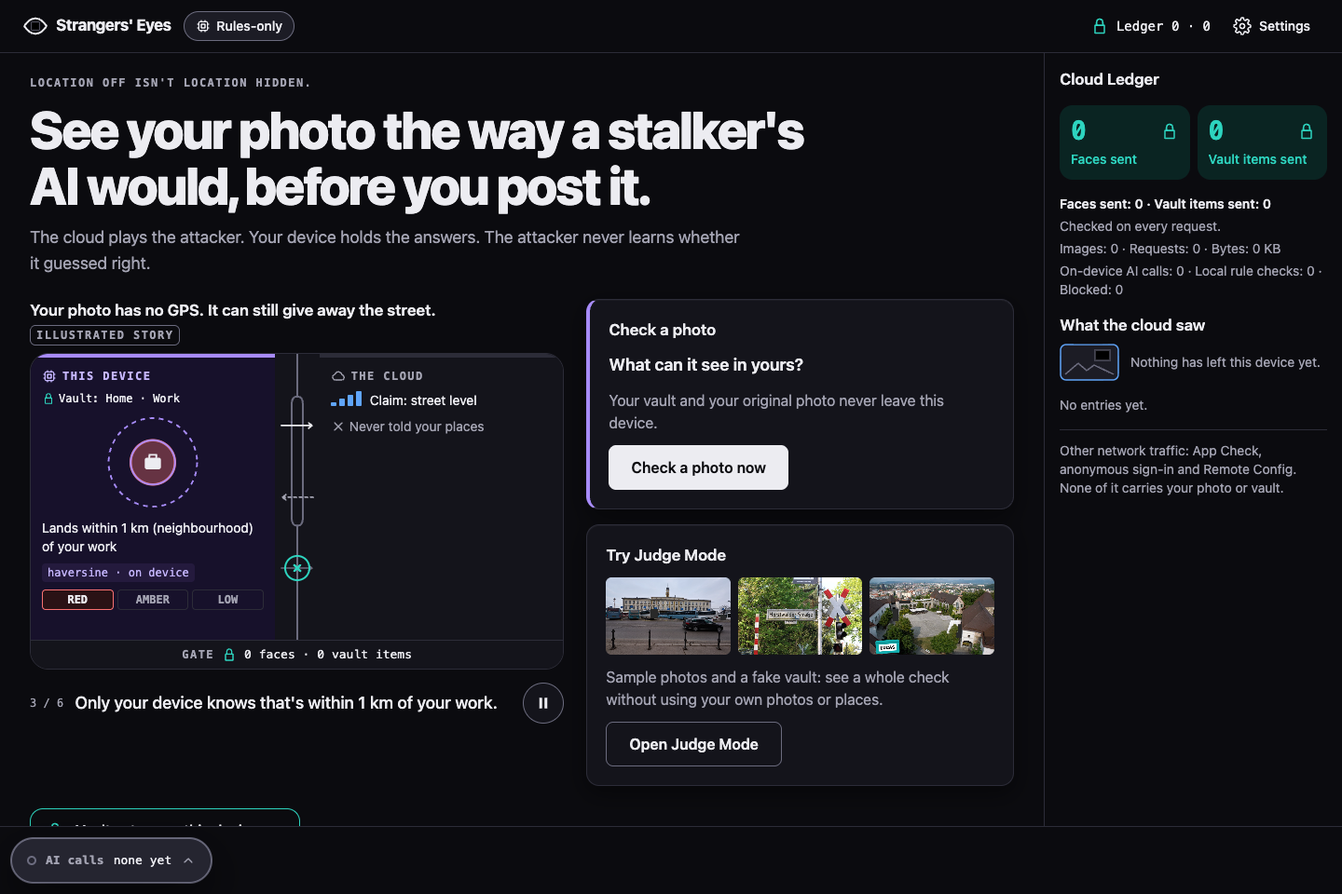
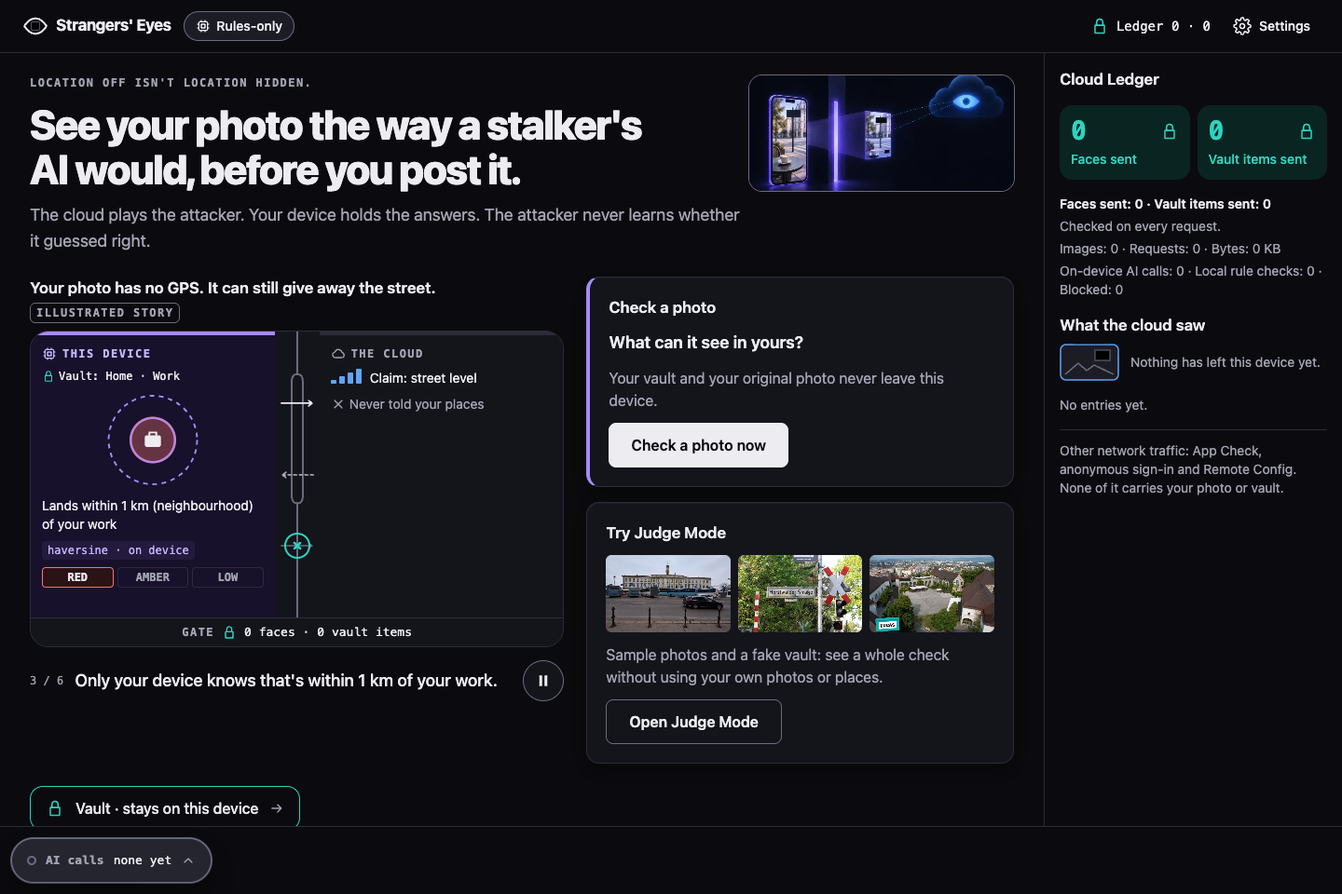
T-166 T-180 D-170 Figma-generated illustrations in the app and the video
- Four illustrations in one style (violet device, blue cloud, solid black
  masks), generated with Figma's AI image tool, as metadata-free WebP in
  web/public/art/ (105 KB, credited in SOURCES.md). Shown through
  components/Art.tsx as decoration: Welcome and the Home header (hero),
  the Check drop zone (check), About (gate). The Vault screen still loads
  no image (vaultUi.test.ts); the vault art is used in the video only.
- Home keeps the fold budget: the headline is 2.75 rem from lg so it stays
  on two lines beside the art; both CTAs above 900 px minus the HUD band.
- Video: hero behind the title reveal, vault on the private-list beat, gate
  behind the closing card; timings and narration unchanged (161.2 s).
- Gallery 01-home re-shot; DESIGN 1.1, DEVPOST disclosure, VIDEO, logs.
  F-301 (a hero draft drew location dots, discarded), F-302.

Web check 3450/3450, build + check-dist ok, check-images ok.

diff --git a/video/src/scenes.tsx b/video/src/scenes.tsx
@@ -48,6 +48,19 @@ const Title = ({ children, at = 0, size = 64, y = 60 }: { children: ReactNode; a
 };
 
 // ---------------------------------------------------------------- 1 post
+/** D-170: a Figma-generated illustration as a full-bleed, dimmed backdrop with a slow push-in. */
+const Backdrop = ({ src, opacity, dim = 0.55, z0 = 1.04, z1 = 1.12 }: { src: string; opacity: number; dim?: number; z0?: number; z1?: number }) => {
+  const frame = useCurrentFrame();
+  const { durationInFrames } = useVideoConfig();
+  const z = interpolate(frame, [0, durationInFrames], [z0, z1]);
+  return (
+    <AbsoluteFill style={{ opacity, overflow: 'hidden' }}>
+      <Img src={staticFile(`img/${src}`)} style={{ width: '100%', height: '100%', objectFit: 'cover', transform: `scale(${z})` }} />
+      <AbsoluteFill style={{ background: `radial-gradient(ellipse at 50% 50%, rgba(11,11,15,${dim}) 0%, rgba(11,11,15,${Math.min(0.95, dim + 0.3)}) 75%)` }} />
+    </AbsoluteFill>
+  );
+};
+
 export const Post = () => {
   const t = useSec();
   const rise = useAt(0, 13);
@@ -124,6 +137,7 @@ export const Stranger = () => {
           })}
         </div>
       </div>
+      <Backdrop src="art-hero.webp" opacity={title} dim={0.6} />
       <AbsoluteFill style={{ justifyContent: 'center', alignItems: 'center', opacity: title }}>
         <div style={{ transform: `scale(${0.9 + 0.1 * title})`, textAlign: 'center', marginTop: -80 }}>
           <EyeLogo size={260} from={10.2} blinkAt={12.2} />
@@ -182,6 +196,11 @@ export const How = () => {
           <div style={{ textAlign: 'center', marginTop: 10, fontSize: 21, color: C.muted }}>distance bands, never a map pin</div>
         </div>
       </Phone>
+      {/* D-170: the vault illustration beside the phone while the private list is on screen */}
+      <div style={{ position: 'absolute', left: 575, top: 560, width: 310, height: 310, opacity: Math.max(0, vault), transform: `scale(${0.92 + 0.08 * Math.max(0, vault)})`,
+        borderRadius: 24, overflow: 'hidden', boxShadow: `0 0 60px ${C.device}44` }}>
+        <Img src={staticFile('img/art-vault.webp')} style={{ width: '100%', height: '100%', objectFit: 'cover' }} />
+      </div>
       {/* the checkpoint */}
       <div style={{ position: 'absolute', left: 925, top: 230 }}><Wall h={600} flash={flash} /></div>
       {/* the cloud AI */}
@@ -443,7 +462,8 @@ export const Close = () => {
   const off = useAt(0.2, 14);
   return (
     <AbsoluteFill style={{ justifyContent: 'center', alignItems: 'center', textAlign: 'center' }}>
-      <div style={{ marginTop: -60 }}>
+      <Backdrop src="art-gate.webp" opacity={off} dim={0.7} />
+      <div style={{ marginTop: -60, position: 'relative' }}>
         <EyeLogo size={200} from={0.4} blinkAt={2.6} />
         <div style={{ fontSize: 52, fontWeight: 800, color: C.muted, marginTop: 10, opacity: off }}>Location off isn't location hidden.</div>
         <div style={{ fontSize: 112, fontWeight: 900, letterSpacing: -3, marginTop: 8, opacity: useAt(2.2), transform: `scale(${0.92 + 0.08 * useAt(2.2)})` }}>Strangers' Eyes</div>

diff --git a/web/src/ui/screens/Home.tsx b/web/src/ui/screens/Home.tsx
@@ -8,6 +8,7 @@
 // StoryReel beside the two cards at xl (it draws both lanes and the Wall, so it replaces the lanes explainer here).
 // Below xl the order is Check card, reel, Judge card, so the Check CTA stays high on a phone.
 import { t } from '../../core/strings';
+import { Art } from '../components/Art';
 import { ButtonLink } from '../components/Button';
 import { Icon } from '../components/Icon';
 import { StoryReel } from '../components/StoryReel';
@@ -19,11 +20,21 @@ const SAMPLE_THUMBS = ['judge-01', 'judge-02', 'judge-03'] as const;
 export function Home() {
   return (
     <div className="flex flex-col gap-6">
+      {/* D-170: the hero illustration sits beside the tagline from lg up and is cropped to the text block's height, so
+          the fold budget (DESIGN §5.1) is unchanged; from sm to lg it follows the lead at a short banner height; on a
+          phone it is left out so the Check CTA stays high. */}
       <section aria-labelledby="home-title" className="flex flex-col gap-3">
-        <p className={EYEBROW}>{t('ui.welcome.eyebrow')}</p>
-        <h1 id="home-title" className="text-display-sm font-extrabold tracking-[-0.035em] text-balance sm:text-display">
-          {t('copy.app.tagline')}
-        </h1>
+        <div className="grid gap-4 lg:grid-cols-[minmax(0,1.45fr)_minmax(0,0.55fr)] lg:items-stretch lg:gap-6">
+          <div className="flex min-w-0 flex-col gap-3">
+            <p className={EYEBROW}>{t('ui.welcome.eyebrow')}</p>
+            <h1 id="home-title" className="text-display-sm font-extrabold tracking-[-0.035em] text-balance sm:text-display lg:text-[2.75rem] lg:leading-[3rem]">
+              {t('copy.app.tagline')}
+            </h1>
+          </div>
+          <div className="relative hidden h-44 min-w-0 sm:block lg:h-auto">
+            <Art name="hero" eager sizes="(min-width: 1024px) 36vw, 100vw" className="absolute inset-0 size-full object-[50%_25%]" />
+          </div>
+        </div>
         <p className={LEAD}>{t('copy.app.oneLiner')}</p>
       </section>
 

diff --git a/web/src/ui/components/Art.tsx b/web/src/ui/components/Art.tsx
@@ -1,0 +1,44 @@
+// web/src/ui/components/Art.tsx: decorative illustrations (D-170). Generated with Figma's AI image tool for this app
+// and credited in web/public/art/SOURCES.md: no real people, places or homes (CLAUDE.md invariant 9), no map, pin or
+// dot for an attacker's guess (invariant 5), masks drawn as solid black (invariant 6).
+// Not used on the Vault screen: that screen loads no image or other resource at all (vaultUi.test.ts guards it).
+// They are DECORATION: alt="" and aria-hidden, because the copy next to each one already says what it shows. The art
+// is painted on a near-black ground, so it sits in its own dark, rounded frame in both themes. Same-origin static files,
+// so they work offline after the first load and never touch the Ledger.
+export type ArtName = 'hero' | 'check' | 'vault' | 'gate';
+
+const SRC: Record<ArtName, { src: string; srcSet?: string; w: number; h: number }> = {
+  hero: { src: '/art/hero.webp', srcSet: '/art/hero-768.webp 768w, /art/hero.webp 1536w', w: 1536, h: 864 },
+  check: { src: '/art/check.webp', w: 800, h: 600 },
+  vault: { src: '/art/vault.webp', w: 640, h: 640 },
+  gate: { src: '/art/gate.webp', w: 960, h: 720 },
+};
+
+export interface ArtProps {
+  name: ArtName;
+  className?: string;
+  /** CSS `sizes` for the responsive source (hero only). */
+  sizes?: string;
+  /** Eager for above-the-fold art; lazy otherwise. */
+  eager?: boolean;
+}
+
+export function Art({ name, className = '', sizes, eager = false }: ArtProps) {
+  const a = SRC[name];
+  return (
+    <img
+      src={a.src}
+      srcSet={a.srcSet}
+      sizes={a.srcSet ? sizes : undefined}
+      width={a.w}
+      height={a.h}
+      alt=""
+      aria-hidden="true"
+      data-art={name}
+      loading={eager ? 'eager' : 'lazy'}
+      decoding="async"
+      draggable={false}
+      className={`block rounded-card bg-[#0b0b0f] object-cover ring-1 ring-line-strong ${className}`}
+    />
+  );
+}

diff --git a/web/src/ui/components/ImportDropzone.tsx b/web/src/ui/components/ImportDropzone.tsx
@@ -14,6 +14,7 @@ import { importPhoto, type ImportedPhoto } from '../../tier0/importPhoto';
 import {
   importAndSettle, pickFromTransfer, pickStep, refuseDragOutsideZone, statusLines, type ImportStatus, type TransferPick,
 } from '../importTransfer';
+import { Art } from './Art';
 import { Icon } from './Icon';
 
 export interface ImportDropzoneProps {
@@ -144,14 +145,18 @@ export function ImportDropzone({ getPins, status, onStatus, onPhoto }: ImportDro
         onDrop={onDrop}
         className={
           'flex min-h-48 w-full flex-col items-center justify-center gap-3 rounded-stage border-2 border-dashed p-8 ' +
-          'text-center text-body transition-colors duration-150 ' +
+          'text-center text-body transition-colors duration-150 sm:flex-row sm:gap-6 sm:p-6 sm:text-left ' +
           (dragging ? 'border-accent bg-surface-2' : 'border-line-strong bg-surface hover:bg-surface-2')
         }
       >
-        <span aria-hidden="true" className="inline-flex size-12 items-center justify-center rounded-card bg-surface-3 text-fg">
-          <Icon name="arrowRight" className="size-6 rotate-90" />
+        {/* D-170: decorative; the drop copy below says what to do. */}
+        <Art name="check" eager className="aspect-[4/3] w-40 shrink-0 sm:w-48" />
+        <span className="flex flex-col items-center gap-3 sm:items-start">
+          <span aria-hidden="true" className="inline-flex size-10 items-center justify-center rounded-card bg-surface-3 text-fg">
+            <Icon name="arrowRight" className="size-5 rotate-90" />
+          </span>
+          <span className="max-w-sm font-medium text-fg">{t('copy.import.drop')}</span>
         </span>
-        <span className="max-w-sm font-medium text-fg">{t('copy.import.drop')}</span>
       </button>
       <div
         id={statusId}

diff --git a/web/src/ui/screens/Welcome.tsx b/web/src/ui/screens/Welcome.tsx
@@ -10,6 +10,7 @@
 // Test hooks: the checkbox is its label's first child, and Continue holds text only.
 import { useEffect, useState, type FormEvent } from 'react';
 import { t, type StringId } from '../../core/strings';
+import { Art } from '../components/Art';
 import { Button } from '../components/Button';
 import { BrandMark, Icon, type IconName } from '../components/Icon';
 import { StoryReel } from '../components/StoryReel';
@@ -80,7 +81,11 @@ export function Welcome({ onContinue }: WelcomeProps) {
             </Button>
           </form>
         </div>
-        <StoryReel variant="hero" className="w-full min-w-0 lg:max-w-[560px] lg:justify-self-end" />
+        {/* D-170: the hero illustration above the reel (decorative; the reel and the copy carry the meaning). */}
+        <div className="flex w-full min-w-0 flex-col gap-4 lg:max-w-[560px] lg:justify-self-end">
+          <Art name="hero" eager sizes="(min-width: 1024px) 560px, 100vw" className="aspect-[16/9] w-full" />
+          <StoryReel variant="hero" className="w-full min-w-0" />
+        </div>
       </div>
     </main>
   );

diff --git a/web/src/ui/screens/About.tsx b/web/src/ui/screens/About.tsx
@@ -12,6 +12,7 @@ import { PAYLOAD_CLASSES, type PayloadClass } from '../../ai/capabilities';
 import { t, type StringId } from '../../core/strings';
 import type { Route } from '../../core/types';
 import type { ReactNode } from 'react';
+import { Art } from '../components/Art';
 import { Badge } from '../components/Badge';
 import { HybridLanes } from '../components/HybridLanes';
 import { StoryReel } from '../components/StoryReel';
@@ -92,6 +93,9 @@ export function About() {
       </div>
 
       <StoryReel variant="strip" className="w-full" />
+
+      {/* D-170: decorative; the card below says it in words. */}
+      <Art name="gate" className="aspect-[2/1] w-full max-w-[68ch]" />
 
       <section aria-labelledby="about-know" data-about="howWeKnow" className={`${CARD} flex max-w-[68ch] flex-col gap-3`}>
         <h2 id="about-know" className="text-title font-semibold">

diff --git a/docs/PROGRESS.md b/docs/PROGRESS.md
@@ -106,7 +106,7 @@ Test image: a white "LUCAS" tag with dark letters, tilted 4°, composited in mem
 Canonical IDs:
 - **D-01..D-39** are in SPEC §0.4 (read them there).
 - **AD-xx** are in ARCH §2. Where an AD duplicates a D, the D wins.
-- **The next free number is D-170.** (Nov 24 evening measured egress: D-169; DEVLOG F-297..F-300; next free DEVLOG row F-301.) (Nov 24 submission hardening: D-165..D-168; DEVLOG F-285..F-296; next free DEVLOG row F-297.) (Nov 23 night Judge re-pick: D-164; DEVLOG F-278..F-284; next free DEVLOG row F-285.) (Nov 23 submission finishing: D-163; DEVLOG F-270..F-277; next free DEVLOG row F-278.) (Nov 23 StoryReel: D-162; DEVLOG F-255..F-269.) (Nov 23 live Judge recordings: D-161; DEVLOG F-252..F-254; next free DEVLOG row F-255.) (Nov 23 redesign: D-160; DEVLOG F-242..F-251.) (Nov 21 evening, main session: D-153..D-157; Nov 23: D-158..D-159; DEVLOG F-227..F-241.) (Nov 21, Judge Mode builder: D-150..D-152, DEVLOG F-223..F-226; next free DEVLOG row F-227.) (Nov 21, ledger/HUD builder: D-148..D-149, DEVLOG F-220..F-222; next free DEVLOG row F-223.) (Nov 21, Nano jobs builder: D-145..D-147, DEVLOG F-216..F-219; next free DEVLOG row F-220.) (Nov 21, fix + re-attack builder: D-142..D-144; DEVLOG F-211..F-214 used, F-215 unused.) (Batch 3, Nov 21: gate D-111..114 + D-129..131, verdict D-115..116 + D-127..128, UI fixes D-117, boot D-118, scanner D-119..120 + D-135, pre-screen D-121..123 + D-132..133, verdict card D-124..125 + D-134, RC/Auth deploy D-126, spike model D-136, slice builder D-137..140, demo-path cut D-141. Next free DEVLOG row: F-211; F-202..F-206 used by the slice builder, F-207..F-209 left unused.)
+- **The next free number is D-171.** (Nov 25 illustrations: D-170; DEVLOG F-301..F-302; next free DEVLOG row F-303.) (Nov 24 evening measured egress: D-169; DEVLOG F-297..F-300; next free DEVLOG row F-301.) (Nov 24 submission hardening: D-165..D-168; DEVLOG F-285..F-296; next free DEVLOG row F-297.) (Nov 23 night Judge re-pick: D-164; DEVLOG F-278..F-284; next free DEVLOG row F-285.) (Nov 23 submission finishing: D-163; DEVLOG F-270..F-277; next free DEVLOG row F-278.) (Nov 23 StoryReel: D-162; DEVLOG F-255..F-269.) (Nov 23 live Judge recordings: D-161; DEVLOG F-252..F-254; next free DEVLOG row F-255.) (Nov 23 redesign: D-160; DEVLOG F-242..F-251.) (Nov 21 evening, main session: D-153..D-157; Nov 23: D-158..D-159; DEVLOG F-227..F-241.) (Nov 21, Judge Mode builder: D-150..D-152, DEVLOG F-223..F-226; next free DEVLOG row F-227.) (Nov 21, ledger/HUD builder: D-148..D-149, DEVLOG F-220..F-222; next free DEVLOG row F-223.) (Nov 21, Nano jobs builder: D-145..D-147, DEVLOG F-216..F-219; next free DEVLOG row F-220.) (Nov 21, fix + re-attack builder: D-142..D-144; DEVLOG F-211..F-214 used, F-215 unused.) (Batch 3, Nov 21: gate D-111..114 + D-129..131, verdict D-115..116 + D-127..128, UI fixes D-117, boot D-118, scanner D-119..120 + D-135, pre-screen D-121..123 + D-132..133, verdict card D-124..125 + D-134, RC/Auth deploy D-126, spike model D-136, slice builder D-137..140, demo-path cut D-141. Next free DEVLOG row: F-211; F-202..F-206 used by the slice builder, F-207..F-209 left unused.)
 
 - D-00 (Nov 19) Idea: **Strangers' Eyes**, chosen by a 29-agent tournament (score 8.18) and approved by the user. **Blindfill** is the Day-1 fallback, *only* with the user's OK if G1 fails (TASKS T-034). Health/Rwanda "Muganga" was rejected (the user wants a global idea).
 - D-00a (Nov 19) Platforms: Web PWA (primary) + iOS. **Android cut**: no physical device, and the emulator has no Nano.
@@ -832,6 +832,12 @@ Canonical IDs:
   - Wording was checked by an independent fact-checking agent; its corrections (no "verdict: 0 bytes", "was sent" not "the cloud got", the retry count, naming the flow) are applied. DEVPOST "Measured: what left the device" section + one README bullet.
   - The run exposed F-297 (the Ledger said "Images: 0 · Nothing has left this device yet" after 2.2 MB left); fixed in the working tree, live only after a hosting redeploy.
 
+- D-170 (Claude, Nov 25; user asked: "the platform does not look top grade on design … generate images on Figma and use them", then "use them in the video") **Four AI-generated illustrations, one style, used as decoration in the app and the video.**
+  - Made in a new Figma design file with Figma's AI image generation (`gpt-image-2.5-flare`, 6 generations incl. one discarded draft), converted to metadata-free WebP (`cwebp -metadata none`, 105 KB in all) in `web/public/art/` with `SOURCES.md` credits. DEVPOST discloses them.
+  - Placement (DESIGN §1.1): `hero` on Welcome and beside the Home headline (lg+, headline 2.75 rem so the fold budget holds: Judge CTA bottom 799 px at 1440 × 900), `check` in the import drop zone, `gate` as an About banner, `vault` in the video only (the Vault screen loads no image: vaultUi.test.ts). The animated StoryReel is unchanged.
+  - Video: `hero` behind the title reveal, `vault` beside the phone on "your private list … never leaves your device", `gate` behind the closing card (`Backdrop` in `video/src/scenes.tsx`; copied by `video/scripts/assets.mjs`). Timings and narration unchanged.
+  - Rules kept: no map, pin or dot for a guess (inv. 5; the first hero draft drew location dots on a map grid and was discarded, F-301), solid black masks (inv. 6), no real people or places (inv. 9).
+
 ### Reconciliation items (T-022, done Nov 19)
 How T-022 ran:
 - Workflow wf_a7c14f46-79f: 6 analysts, 5 per-doc editors, 2 verification rounds and 1 fix round.
@@ -1285,4 +1291,8 @@ How T-022 ran:
 - Verified: web check 75 files / 3450 tests after the review round, build + check-dist ok; iOS `xcodebuild test` 32/32 (Simulator shut down after).
 - Open: F-298 rules-only OCR over-masks (23 house-number masks on the Berlin photo), F-299 HUD "fallback" tag on failed S3 attacker lines. Shipped on the user's "Yes, ship it".
 - **Hosting redeploy #8:** built cb2fc4c in a detached clean worktree, `npm ci` + build + check-dist ok, `deploy --only hosting` (RC untouched). Live index.html, sw.js, manifests, the judge-02 photo and every JS asset byte-identical to that dist (14/14). Worktree removed.
+
+### 2026-11-25: illustrations from Figma (D-170; main session)
+- D-170: four Figma-generated illustrations in `web/public/art/` (Welcome, Home, Check import, About; vault art in the video only) and in the video (title, private-list beat, close). Gallery `01-home.png` re-shot (local spike server, no AI call). DESIGN §1.1, DEVPOST illustrations line + built-with, SOURCES.md.
+- Verified: web check 75 files / 3450 tests (the Vault no-image test caught the first placement, F-302); check-images ok; layouts checked in the browser at 1440 × 900 (both CTAs above the fold), 1280 light theme and 375 mobile (no horizontal scroll); video stills at the three new beats. Full video re-render below.
 

diff --git a/docs/VIDEO.md b/docs/VIDEO.md
@@ -425,6 +425,7 @@ For a jump cut instead of a speed-up (s02, s16): split the segment into two `cli
 - **Footage:** `node scripts/record.mjs` drives headless Chrome over CDP against the DEV server (`npm --prefix web run dev`), 1280×720 CSS at 1.5× = 1920×1080, 30 fps. No fake seams. Judge runs that reach the attacker turn on the app's own Simulate offline, so Judge Mode replays the Nov 23 live recordings, **badged CACHED SAMPLE on screen**, and no photo is sent to the attacker again. The gate clip runs online but the gate refuses on the device (pass B BLOCKED `VAULT_TEXT_IN_IMAGE`; the only request is the sample's S4 pre-screen). Headless Chrome has no Gemini Nano, so private steps show **RULES-ONLY**, and the narration says so instead of claiming Nano on screen. Every footage scene carries a caption line saying what is real and what is replayed; footage sped up more than 1.25× shows its speed.
 - **Scenes (12, plain-language cut, Nov 24; user: "make sure even someone who does not understand the project can understand it" and "the animation graphic is not good"):** written by a panel (3 drafts scored by a first-time viewer and a hackathon judge, then synthesized; the judges' honesty catches applied: "house number", not "number plate"; no "safe"; the gate stopped the copy to the attacker, the sample pre-screen did go out). post (drawn: photo near home, location off, posted) · stranger (the stranger's AI boxes a street sign, a shop name, a building; world → street funnel; title) · how (four drawn steps: Clean on the device, Guess in the cloud on the cleaned copy only, Check against the private list on the device with distance bands, the "right or wrong" token bouncing off the checkpoint, Fix + try again) · judge (footage + the made-up family) · prescreen (LUCAS covered) · gate (cover removed on purpose → BLOCKED) · castle (real answer replayed, red, rings around home and work, crop or don't post) · crossing (scan boxes on the real photo, amber, masks, "only Berlin", Risk reduced) · station (still exposed) · results (10-photo test, animated) · hybrid (cloud world knowledge vs device secrets; Nano in Chrome, Apple's model on iPhone; rules, never the cloud; Firebase AI Logic) · close. Captions are burned into the picture (and `out/subtitles.en.srt` for YouTube). Drawn cast in `src/art.tsx` and `src/anim.tsx`; nothing drawn is a real map or address.
 - **Re-cut Nov 24 (D-166, D-167):** footage re-recorded on the plain-language UI, which never shows the attacker's guessed place, so the narration describes how close the guess came instead of naming places ("recognised the castle", "found the street", "can only guess the city", "found the right city"), and the castle scene adds "The app never shows where the AI thinks you are, only how close it came" with a "never shown" chip under the rings. The crossing chip reads "Attacked again: city level only". The hybrid scene's iPhone is now the Nov 24 iOS Judge run (`ios/screenshots/ios-judge-10-compare.png`: Apple FM on the device, recorded attacker answer, "Risk reduced"), replacing the Nov 21 stand-in still. The gate scene cuts on recorder marks (`unticked`, `blocked`), not fixed seconds. The recorder now logs each AI-host request's method: the gate clip is one POST (the S4 sample pre-screen) plus its CORS preflight; every Judge clip is 0.
+- **Illustrations Nov 25 (D-170):** three Figma-generated illustrations (credited in `web/public/art/SOURCES.md`) added as backdrops, with timings and narration unchanged: the hero behind the stranger scene's title reveal, the vault beside the phone while the private list is on screen (how, step 3), and the gate (the cloud's "?" stopped at the wall) behind the closing card. `scripts/assets.mjs` copies them; `Backdrop` in `src/scenes.tsx`.
 - **Commands (in `video/`):** `node scripts/assets.mjs` (stills) · `node scripts/record.mjs [clip…]` · `npm run tts` · `npm run studio` · `npm run render` → `out/strangers-eyes.mp4`.
 - **Still open for the user:** a take with Gemini Nano on camera (the user's own Chrome; ON-DEVICE badges) can replace the pre-screen and referee footage; upload (Public, English captions) stays [USER].
 

diff --git a/docs/DEVPOST.md b/docs/DEVPOST.md
@@ -11,11 +11,11 @@
 |---|---|---|---|
 | Name | 15 | [UNVERIFIED: T-167] (Devpost usually 60) | fits the usual limit |
 | Elevator pitch | 165 | [UNVERIFIED: T-167] (Devpost usually 200; SPEC §1 says ≤200) | fits |
-| About the project (Markdown) | 9,696 (1,542 words) | [UNVERIFIED: T-167] (no limit known) | re-check when the draft is read |
+| About the project (Markdown) | 9,943 (1,579 words) | [UNVERIFIED: T-167] (no limit known) | re-check when the draft is read |
 | Testing instructions | 1,570 | [UNVERIFIED: T-167] | re-check when the draft is read |
 | Built during the submission period | 583 | [UNVERIFIED: T-167] | re-check when the draft is read |
 
-Measured Nov 24 after the submission-hardening rewrite and the writeup fixes (Ledger wording, failover, iOS pre-screen, the restored iOS Auth/Remote Config disclosure), with no fill-in markers left inside the fields. Re-measured Nov 24 after adding the "Measured: what left the device" section (D-169).
+Measured Nov 24 after the submission-hardening rewrite and the writeup fixes (Ledger wording, failover, iOS pre-screen, the restored iOS Auth/Remote Config disclosure), with no fill-in markers left inside the fields. Re-measured Nov 24 after adding the "Measured: what left the device" section (D-169) and the illustrations line (D-170).
 
 ---
 
@@ -43,7 +43,7 @@ About the footage: the app was recorded in headless Chrome, which has no Gemini 
 Web (Chrome and any modern browser) and iOS (SwiftUI, tested in the Simulator). [USER: platforms and "Best of" category, T-172]
 
 ## Built with
-firebase-ai-logic, gemini, gemini-nano, apple-foundation-models, firebase-app-check, recaptcha-enterprise, firebase-auth, firebase-remote-config, firebase-hosting, react, typescript, vite, tailwindcss, swiftui, vision, mediapipe, tesseract.js
+firebase-ai-logic, gemini, gemini-nano, apple-foundation-models, firebase-app-check, recaptcha-enterprise, firebase-auth, firebase-remote-config, firebase-hosting, react, typescript, vite, tailwindcss, swiftui, vision, mediapipe, tesseract.js, figma, remotion, kokoro
 
 ## About the project
 <!-- about -->
@@ -90,6 +90,7 @@ New here: an on-device vault as ground truth, grading the attacker never sees, o
 - **Web:** `firebase/ai` hybrid: Gemini Nano in Chrome for the pre-screen and referee (verified in Chrome 157, ~6–10 s warm); `gemini-3.5-flash-lite` with a JSON schema for the attacker (median 7.0 s). Remote Config can name backup models to try on a 5xx or 429 (`adversary_fallback_models`); the list ships empty, so today an overloaded attacker means Judge Mode replays its recorded answers. MediaPipe and Tesseract.js find faces and text; distances are code (haversine). Over 3,300 tests.
 - **iOS (Simulator):** SwiftUI, `FirebaseAILogic` pinned to 12.19.3 (`HybridModel` was removed in 13.0.0), Vision masks, a Swift Egress Gate. Apple Foundation Models run the pre-screen (over Vision's OCR text and scene labels, never the image) and the referee on the device. iOS Judge Mode replays the same recorded Gemini answers; a Nov 24 UI test ran sample 2 to "Risk reduced" with every private step ON-DEVICE and 0 bytes sent. An earlier Simulator demo used a labelled debug stand-in attacker.
 - **Also (web):** App Check, Anonymous Auth, Remote Config, Hosting. iOS uses App Check only.
+- **Illustrations:** the four decorative illustrations in the app and video were generated with Figma's AI image tool for this project (no real people or places; credited in `web/public/art/SOURCES.md`). Everything else on screen is the real app.
 
 ## Judge Mode samples: please read
 Three CC0 Wikimedia Commons photos of public places (two Ljubljana, one Berlin; credited in the repo). We solid-masked people, adverts showing people and real plates, and drew in a "LUCAS" name-tag lunchbox, which the app masks on the device. The vault is made up; pins sit in a park and a square near each photo.

diff --git a/docs/DEVLOG.md b/docs/DEVLOG.md
@@ -318,6 +318,8 @@ How a flaw was found:
 | F-298 | Nov 24 | D-169 | main session (live run) | minor | Open: with no Nano, the rules-only text check read "670 words" on the Berlin sample and proposed 23 "House number" masks (3, 7, 437, 7y …), mostly OCR noise; over-masking is the safe direction, but it looks broken to a judge testing their own photo | Not fixed; candidate: a minimum box size/confidence for digit-only house-number hits |
 | F-299 | Nov 24 | D-169 | main session (live run) | nit | Open: a failed S3 attacker line in the HUD carries a "fallback" tag (from `fallback: <code>` notes), though S3 never falls back | Not fixed; candidate: no fallback tag for S3 entries |
 | F-300 | Nov 24 | D-169 | independent review (fact-checker agent) | minor | My first measured-egress bullet overstated: "the verdict sent 0 bytes" (no verdict existed), "that doesn't change what left" (a full run also sends the re-attack copy), "the cloud got" (requests failed), wrong retry count, flow not named | Rewritten as a scoped section; DEVPOST + README agree |
+| F-301 | Nov 25 | D-170 | main session (self) | minor | The first generated hero drew the cloud's eye pointing at location dots on a map grid, which reads as the attacker's guess drawn as a pin (invariant 5) | Discarded; regenerated with "no maps, no pins, no location dots"; SOURCES.md records it |
+| F-302 | Nov 25 | D-170 | test (vaultUi.test.ts) | minor | The vault illustration on the Vault screen broke the guard that the screen loads no image or other resource (it exists so no map tile can ever appear there) | Art removed from the Vault screen (used in the video instead); the guard is unchanged |
 
 ---
 
@@ -468,6 +470,9 @@ How a flaw was found:
 - The HUD at the bottom left now lists every AI call as it happens: which job, its privacy class, where it ran (ON-DEVICE, IN CLOUD, RULES-ONLY, BLOCKED), the engine, how long it took, how many bytes left, and tags such as "fallback: no on-device model" or "Nano off". Collapsed, the pill shows the last call. Everything comes from the Ledger, which only holds ids, kinds, hashes and numbers.
 - The Cloud Ledger rail shows live counters and "What the cloud saw": the exact redacted JPEG of the last cloud send, kept in memory and shown only when the hash of its own bytes equals the hash the gate recorded, with the same 8-character prefix the consent sheet shows. The original photo is never registered. It all lives in memory for this page; nothing is stored or sent.
 - No real AI call was made. Browser check with the DEV fake Nano and fake adversary on a synthetic image: pre-screen and referee ON-DEVICE, pass B IN CLOUD, matching hashes. Found F-220..F-222.
+
+### Nov 25: illustrations (D-170)
+- The app worked but looked bare: text, wireframe-style drawings and plain cards. Four illustrations were generated in Figma in one style (violet for this device, blue for the cloud, solid black masks) and placed where the screens had no visuals, plus three beats of the video. The first hero drew location dots under the cloud, which is exactly the "guess as a pin" the app never shows, so it was redrawn. A privacy test caught an image on the Vault screen, which must load nothing; that one moved to the video.
 
 ### Nov 24 (evening): measuring what leaves (D-169)
 - The write-up claimed the device/cloud split but never measured it. So we measured it on the hosted app: one redacted 338 KB copy and fixed instructions left per request; the original, the pins and the name did not. Google's model was overloaded, so all three attack attempts failed and only the first attack's outgoing request was measured; the write-up says exactly that.

diff --git a/docs/DESIGN.md b/docs/DESIGN.md
@@ -29,6 +29,14 @@ Signature elements (each one is driven by real data and never invented):
 5. **Mask-eye brand mark**: an eye outline whose pupil is a solid black square, echoing the solid-mask rule.
 6. **Judge Mode above the fold**: thumbnail sample cards collapse to a strip, and the run scrolls into view.
 
+### 1.1 Illustrations (D-170, Nov 25)
+Four AI-generated illustrations in one style (near-black ground, violet = this device, blue = the cloud, solid black masks), made in Figma and served from `web/public/art/` (credits and rules in `web/public/art/SOURCES.md`), through `components/Art.tsx` only:
+- `hero`: Welcome (above the reel), Home (beside the headline from lg up, cropped to the headline block; hidden on phones). Home keeps the DESIGN §5.1 fold budget: the headline is 2.75 rem from lg so it stays on two lines beside the art, and both CTAs sit above a 900 px fold minus the HUD band.
+- `check`: inside the Check import drop zone (beside the text from sm up).
+- `gate`: About, a banner above "How we know".
+- `vault`: the video only. The Vault screen loads no image (vaultUi.test.ts).
+They are decoration (`alt=""`, `aria-hidden`) in a dark rounded frame in both themes. Rules: no map, pin or dot for a guess (invariant 5), solid-black masks (invariant 6), no real people or places (invariant 9). A new illustration must be credited in SOURCES.md and must not imply a measured result.
+
 ## 2. Tokens (`web/src/index.css`)
 
 Replace the `:root` and light blocks with the blocks below. Every existing `--se-*` name is kept, and changed values

diff --git a/web/public/art/SOURCES.md b/web/public/art/SOURCES.md
@@ -1,0 +1,18 @@
+# Illustrations (web/public/art)
+
+Decorative illustrations used on Welcome, Home, Check (import) and About, and in the demo video (D-170). `vault.webp` is used only in the video: the Vault screen loads no image at all (a test guards that).
+
+| File | Shows | Source |
+|---|---|---|
+| `hero.webp`, `hero-768.webp` | A phone (violet, this device), a wall with one gate, a masked copy crossing it, and a cloud with one eye (blue) looking at the copy | Generated for this project on Nov 25 2026 with Figma's AI image generation (model `gpt-image-2.5-flare`) |
+| `check.webp` | A phone on which two blank signs in a generic street photo are being covered by solid black masks | Same |
+| `vault.webp` | A violet safe inside a phone outline holding a house token, a briefcase token and a blank name tag | Same |
+| `gate.webp` | A wall between a violet side (padlock, masked photo card) and a blue side (cloud with one eye); the cloud's "?" is stopped at the wall | Same |
+
+Rules followed (CLAUDE.md invariants 5, 6, 9):
+- No real people, no real homes or schools, no real landmarks. The street scenes are generated, not photographs of real places.
+- No map, pin or dot for the attacker's guess. A first hero draft drew location dots on a map grid and was discarded.
+- Masks are solid black.
+- The prompts asked for no text, numbers or logos.
+
+Each file was converted to WebP with `cwebp -metadata none`, so no metadata is stored. They are decoration (`alt=""`, `aria-hidden`); the copy next to each one carries the meaning.
